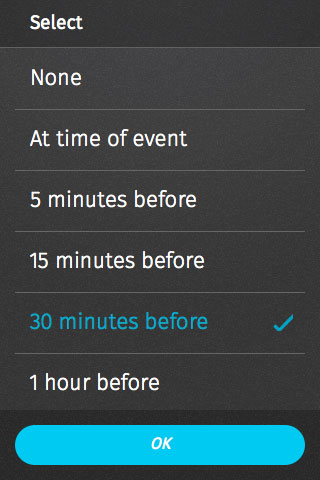
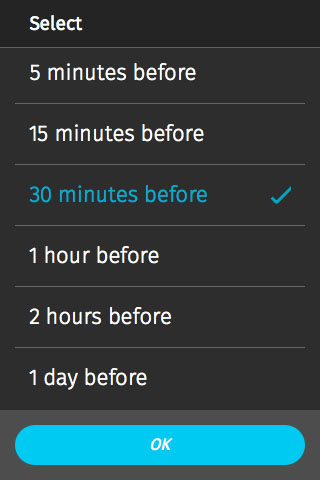
updated value selectors

diff --git a/_includes/building-blocks/value_selector_1.html b/_includes/building-blocks/value_selector_1.html
@@ -1,18 +1,21 @@
-<form role="dialog" data-type="value-selector">
-  <section class="scrollable">
-    <h1>Select</h1>
-    <ol role="listbox">
-      <li role="option"><label role="presentation"> <span>None</span></label></li>
-      <li role="option"><label role="presentation"> <span>At time of event</span></label></li>
-      <li role="option"><label role="presentation"> <span>5 minutes before</span></label></li>
-      <li role="option"><label role="presentation"> <span>15 minutes before</span></label></li>
-      <li role="option" aria-selected="true"><label role="presentation"> <span>30 minutes before</span></label></li>
-      <li role="option"><label role="presentation"> <span>1 hour before</span></label></li>
-      <li role="option"><label role="presentation"> <span>2 hours before</span></label></li>
-      <li role="option"><label role="presentation"> <span>1 day before</span></label></li>
-    </ol>
-  </section>
-  <menu>
-    <button class="affirmative full">OK</button>
-  </menu>
-</form>
+<section class="value-selector">
+  <form role="dialog" data-type="value-selector">
+    <section class="scrollable">
+      <h1>Select</h1>
+      <ol role="listbox">
+        <li role="option"><label role="presentation"> <span>None</span></label></li>
+        <li role="option"><label role="presentation"> <span>At time of event</span></label></li>
+        <li role="subheader"><label role="presentation"> <span>Subheader</span></label></li>
+        <li role="option"><label role="presentation"> <span>5 minutes before</span></label></li>
+        <li role="option"><label role="presentation"> <span>15 minutes before</span></label></li>
+        <li role="option" aria-selected="true"><label role="presentation"> <span>30 minutes before</span></label></li>
+        <li role="option"><label role="presentation"> <span>1 hour before</span></label></li>
+        <li role="option"><label role="presentation"> <span>2 hours before</span></label></li>
+        <li role="option"><label role="presentation"> <span>1 day before</span></label></li>
+      </ol>
+    </section>
+    <menu class="value-selector-buttons">
+      <button class="affirmative full">OK</button>
+    </menu>
+  </form>
+</section>
